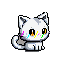
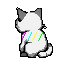
T-166 first pass built: 21 true rear views in the game

Changed region(s): [[0.1562, 0.0938, 0.8438, 0.9062]]

diff --git a/docs/TODO.md b/docs/TODO.md
@@ -64,7 +64,7 @@ was one `git log -S` away.*
 
 | | what | where | from |
 |---|---|---|---|
-| **T-166** | **Every back view is checked to be a back** (*asked 2026-09-18*). **Several redrawn backs are front-like — the model turns a rear view to face the camera, or draws the same side view twice** — *flagged on the sheets so far: SENTRY, RAMROD, TRACER, STARR (following its concept), LATENCY, LULL, NOZZLE, STUB, HANDLER; and batch 12's COLDREAD, HAUNTPROC and TRACKER; batch 13's MULTICAST; batch 14's BLINDSPOT, WHIM, HUDDLE, FIXATION, SIMMER, OMEN and BRISTLE (side-on or facing); batch 15's VIGILANCE, GRASP, IMITATION, REPAY and ILLUSION.* ***The job***: **one contact sheet of every redrawn daemon's front beside its back, read by eye, and a list of the failures** — *then each failure redrawn with batch 7's rear wording ("seen from directly behind, no face visible, back of the head") and a face-and-eyes negative, several seeds, and rebuilt.* *A check a tool can make first: a back whose pixels correlate too closely with its own front (a mirrored or duplicated view) is suspect.* ***Closes when every back on the sheet reads as the creature from behind, and the list is empty.*** ***AUDITED AND A FIRST PASS DRAFTED 2026-09-19*** (*`gfx/drafts/t166/`*): **the audit (`audit_*.png`, `similarity.txt`) found 67 front-like backs, not the 25 listed** — *the symmetric daemons (CLUSTER, LOCUS, BEACON, PULSAR, the jellyfish, dragonflies, crabs) are right to match and are left alone.* **All 67 redrawn back-only, three seeds each (201 drafts); 21 are good rear views of the same creature (`picks.json`, `sheet.png`, awaiting approval).** ***Why only 21, and what the second pass needs***: *the prompts reused each batch's FIRST description, not the redraw that was approved — so COLDREAD came back a woman, ENSEMBLE palm trees, HANDLER a blue duck, PIPELINE a humanoid. Fish, seahorses, ghosts and serpents also resist a rear view at all.* **Second pass: describe each from its APPROVED front (what is actually drawn), and for the fish and serpents accept a mirrored three-quarter view as the back, which is what the source games did.** *Six more cleaned badly and were dropped (CHILLER, INFERENCE, GRASP, REPAY, IMITATION, OMEN), and SENTINEL's new back still showed its eye.* | `gfx/daemons/*_back.png`, `tools/cleandraft.py`, `tools/contactsheet.py` | T-131 |
+| **T-166** | **Every back view is checked to be a back** (*asked 2026-09-18*). **Several redrawn backs are front-like — the model turns a rear view to face the camera, or draws the same side view twice** — *flagged on the sheets so far: SENTRY, RAMROD, TRACER, STARR (following its concept), LATENCY, LULL, NOZZLE, STUB, HANDLER; and batch 12's COLDREAD, HAUNTPROC and TRACKER; batch 13's MULTICAST; batch 14's BLINDSPOT, WHIM, HUDDLE, FIXATION, SIMMER, OMEN and BRISTLE (side-on or facing); batch 15's VIGILANCE, GRASP, IMITATION, REPAY and ILLUSION.* ***The job***: **one contact sheet of every redrawn daemon's front beside its back, read by eye, and a list of the failures** — *then each failure redrawn with batch 7's rear wording ("seen from directly behind, no face visible, back of the head") and a face-and-eyes negative, several seeds, and rebuilt.* *A check a tool can make first: a back whose pixels correlate too closely with its own front (a mirrored or duplicated view) is suspect.* ***Closes when every back on the sheet reads as the creature from behind, and the list is empty.*** ***AUDITED AND A FIRST PASS DRAFTED 2026-09-19*** (*`gfx/drafts/t166/`*): **the audit (`audit_*.png`, `similarity.txt`) found 67 front-like backs, not the 25 listed** — *the symmetric daemons (CLUSTER, LOCUS, BEACON, PULSAR, the jellyfish, dragonflies, crabs) are right to match and are left alone.* **All 67 redrawn back-only, three seeds each (201 drafts); 21 are good rear views of the same creature (`picks.json`, `sheet.png`) — approved and BUILT 2026-09-19 (engine `c97d80a44`), 46 left for the second pass.** ***Why only 21, and what the second pass needs***: *the prompts reused each batch's FIRST description, not the redraw that was approved — so COLDREAD came back a woman, ENSEMBLE palm trees, HANDLER a blue duck, PIPELINE a humanoid. Fish, seahorses, ghosts and serpents also resist a rear view at all.* **Second pass: describe each from its APPROVED front (what is actually drawn), and for the fish and serpents accept a mirrored three-quarter view as the back, which is what the source games did.** *Six more cleaned badly and were dropped (CHILLER, INFERENCE, GRASP, REPAY, IMITATION, OMEN), and SENTINEL's new back still showed its eye.* | `gfx/daemons/*_back.png`, `tools/cleandraft.py`, `tools/contactsheet.py` | T-131 |
 | **T-165** | **PIXELBYTE and SPRITEFORGE are daemons** (*asked 2026-09-18; PIXELBYTE was first noted under T-131*). **The two tools that drew this bestiary become two of its creatures** — *PIXELBYTE, the pixel-art model wrapped as a skill, and SPRITEFORGE, the tool that drives it.* ***The names are the user's and approved; everything else is open***: **which species slot each takes (a renamed vanilla species, or two of the unused slots), their type and line (a pair, or an evolution — a forge that makes the bytes), where the player meets them, and their Index entries** — *new in-game writing, so the wording is approved before it goes in, and craft rule 1 holds: the entry names the process, never the thesis.* **Drawn with the recipe they are named for.** ***SPRITEFORGE knows RECURSION*** (*decided by the user 2026-09-19*): **it is the thing that makes its own sprites** — *a forge that reads its own last output and builds on it.* ***A conflict to settle with it***: **RECURSION is S.T.A.R.R.'s signature (4.7; 5862's table), and the engine comment calls it "S.T.A.R.R.'s alone"** — *`sMovesForbiddenToCopy` only stops METRONOME, CLONE and IMPRINT from reaching it, so a second daemon learning it by level-up is mechanically fine; what changes is that the signature is shared, and 4.7 should say so, or say why SPRITEFORGE's is the same move understood differently.* | `src/data/text/species_names.h`, `src/data/pokemon/`, `gfx/daemons/` | T-131, 2.7 |
 | **T-164** | **Every overworld sprite and tile redrawn through the sprite server, in batches** (*asked 2026-09-18*). **The world art so far — buildings, ground, nature tiles, people, the player (T-52, T-61–T-85, T-105–T-129) — was generated in CODE by the `gba*`/`gen*` tools; the daemons are now drawn through ComfyUI on roverbyteseer (`spriteforge.py`, pixelbyte's model), and the world should be too.** ***The job, planned like T-131***: **a census of every overworld sheet and tileset (object events, trainer overworlds, primary and secondary tilesets, the ones already ours included), then batches in the order a player sees them, each drafted, on a contact sheet, approved, then built** — *tiles are a harder target than sprites: 8×8 cells, shared palettes per tileset, metatile layers and collision that must not move (T-125's zero-collision-change rule), and seams between tiles (engine.md trap 14).* ***Depends on T-133*** *for the daemon objects.* **First step: a trial on one building and one ground tileset, to learn whether the model can draw tileable 16×16 metatiles at all, before a plan is written.** | `graphics/object_events/`, `data/tilesets/`, `tools/spriteforge.py`, `tools/gbainterior.py` | T-131, T-133, T-125, 9.22, 9.23 |
 | ~~**T-163**~~ | ~~**MISSINGNO is an homage** (*decided by the user 2026-09-18*). **Its sprite is the original's backwards-L block of scrambled texture, but CODIFIED — made of green falling-matrix code** *rather than random tile garbage.* **It stands in `OLD_UNOWN_B` at level 80 and was left out of T-131's batches for this decision.** ***Open***: *whether the green is its type's colour or the one exception to 9.4 (a glitch that ignores the colour rule is itself an homage), its back view, and its Index entry (new writing, approved first).*~~ — ***Done 2026-09-19*** (engine `47b3c8aec`; `gfx/drafts/t163/`): **the backwards-L block, filled with columns of falling green code** — *generated by `make.py`, not drawn by the model, because it is code; fixed seeds (1996 front, 2026 back) so it rebuilds identically. Its own `graphics/pokemon/old_unown_b` and four table entries (it had shared the "??" placeholder with the other old-Unown slots). The body ramps to CORRUPT's mould and the greens stay accents, so the colour rule's one exception needed no exception. Index entry still vanilla's; new writing waits on approval.* | `graphics/pokemon/old_unown_b/`, `gfx/daemons/` | T-131, 9.4 |
